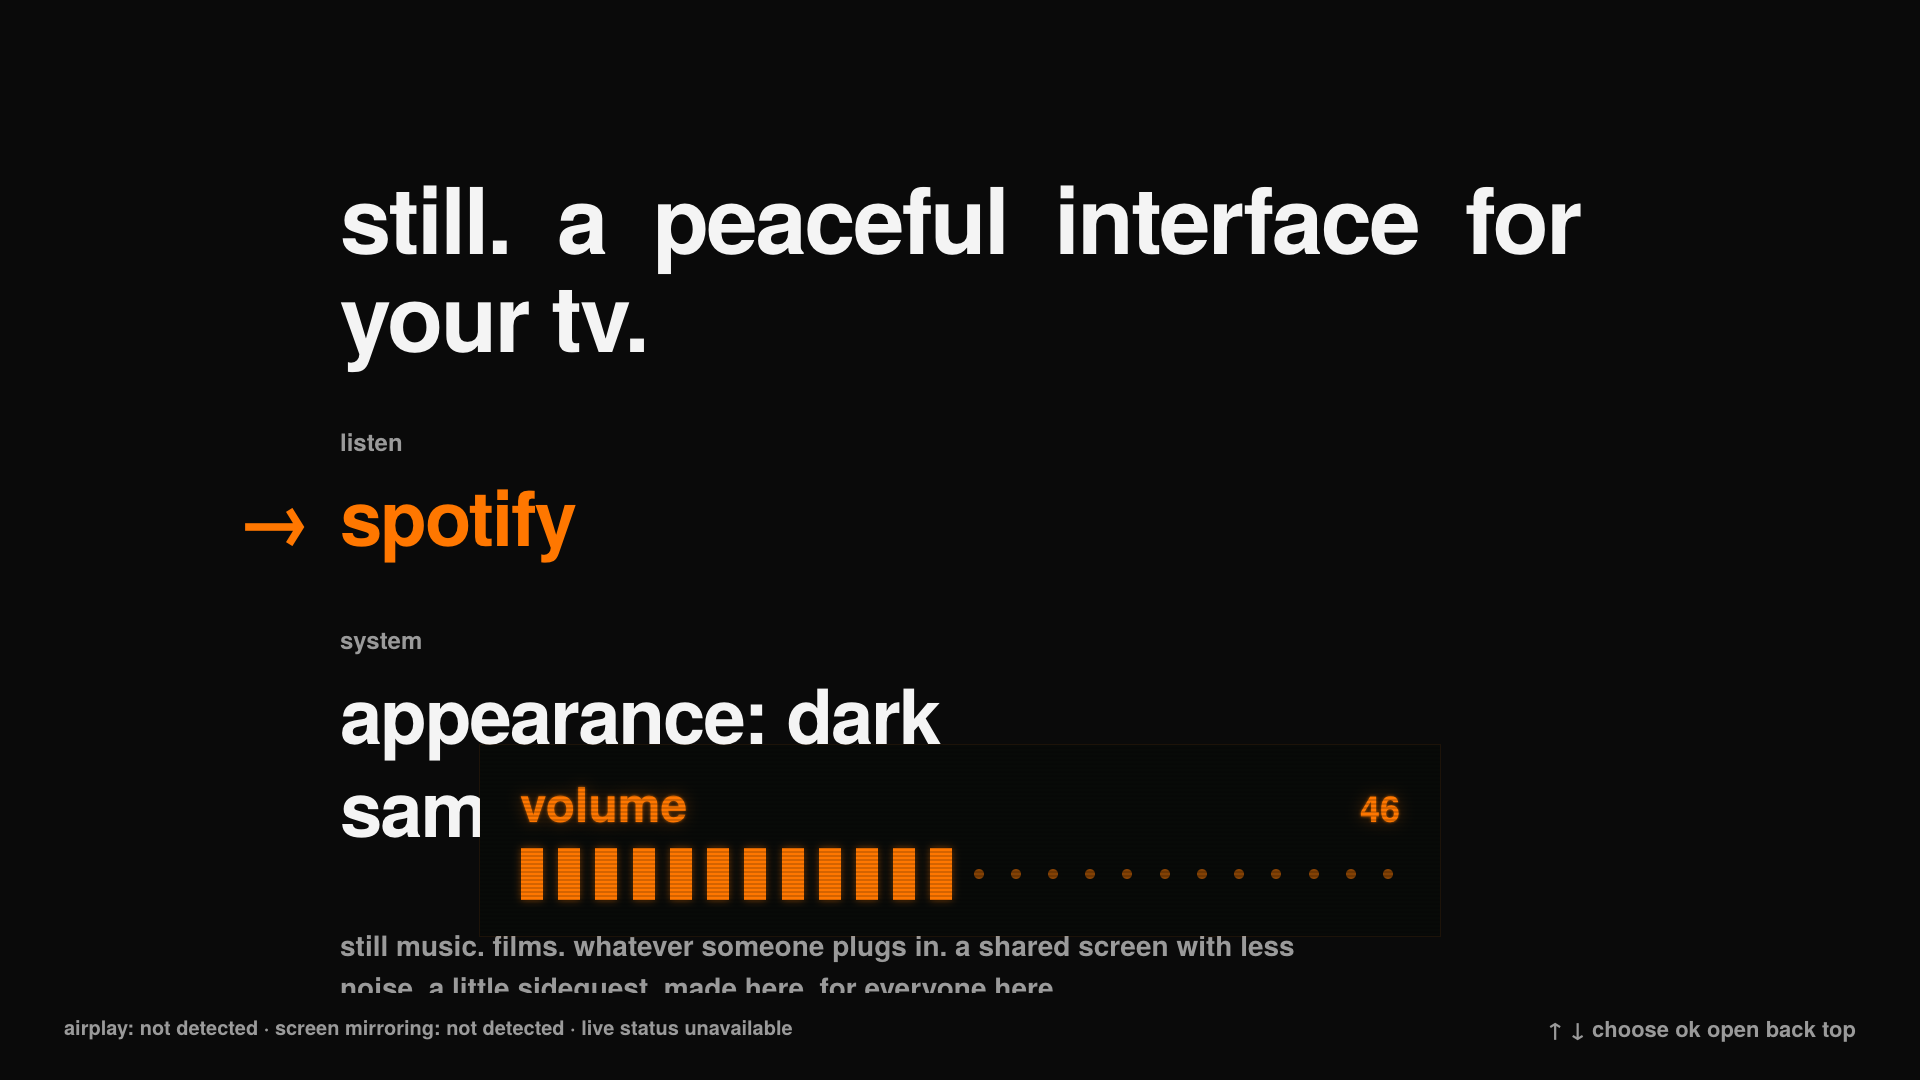
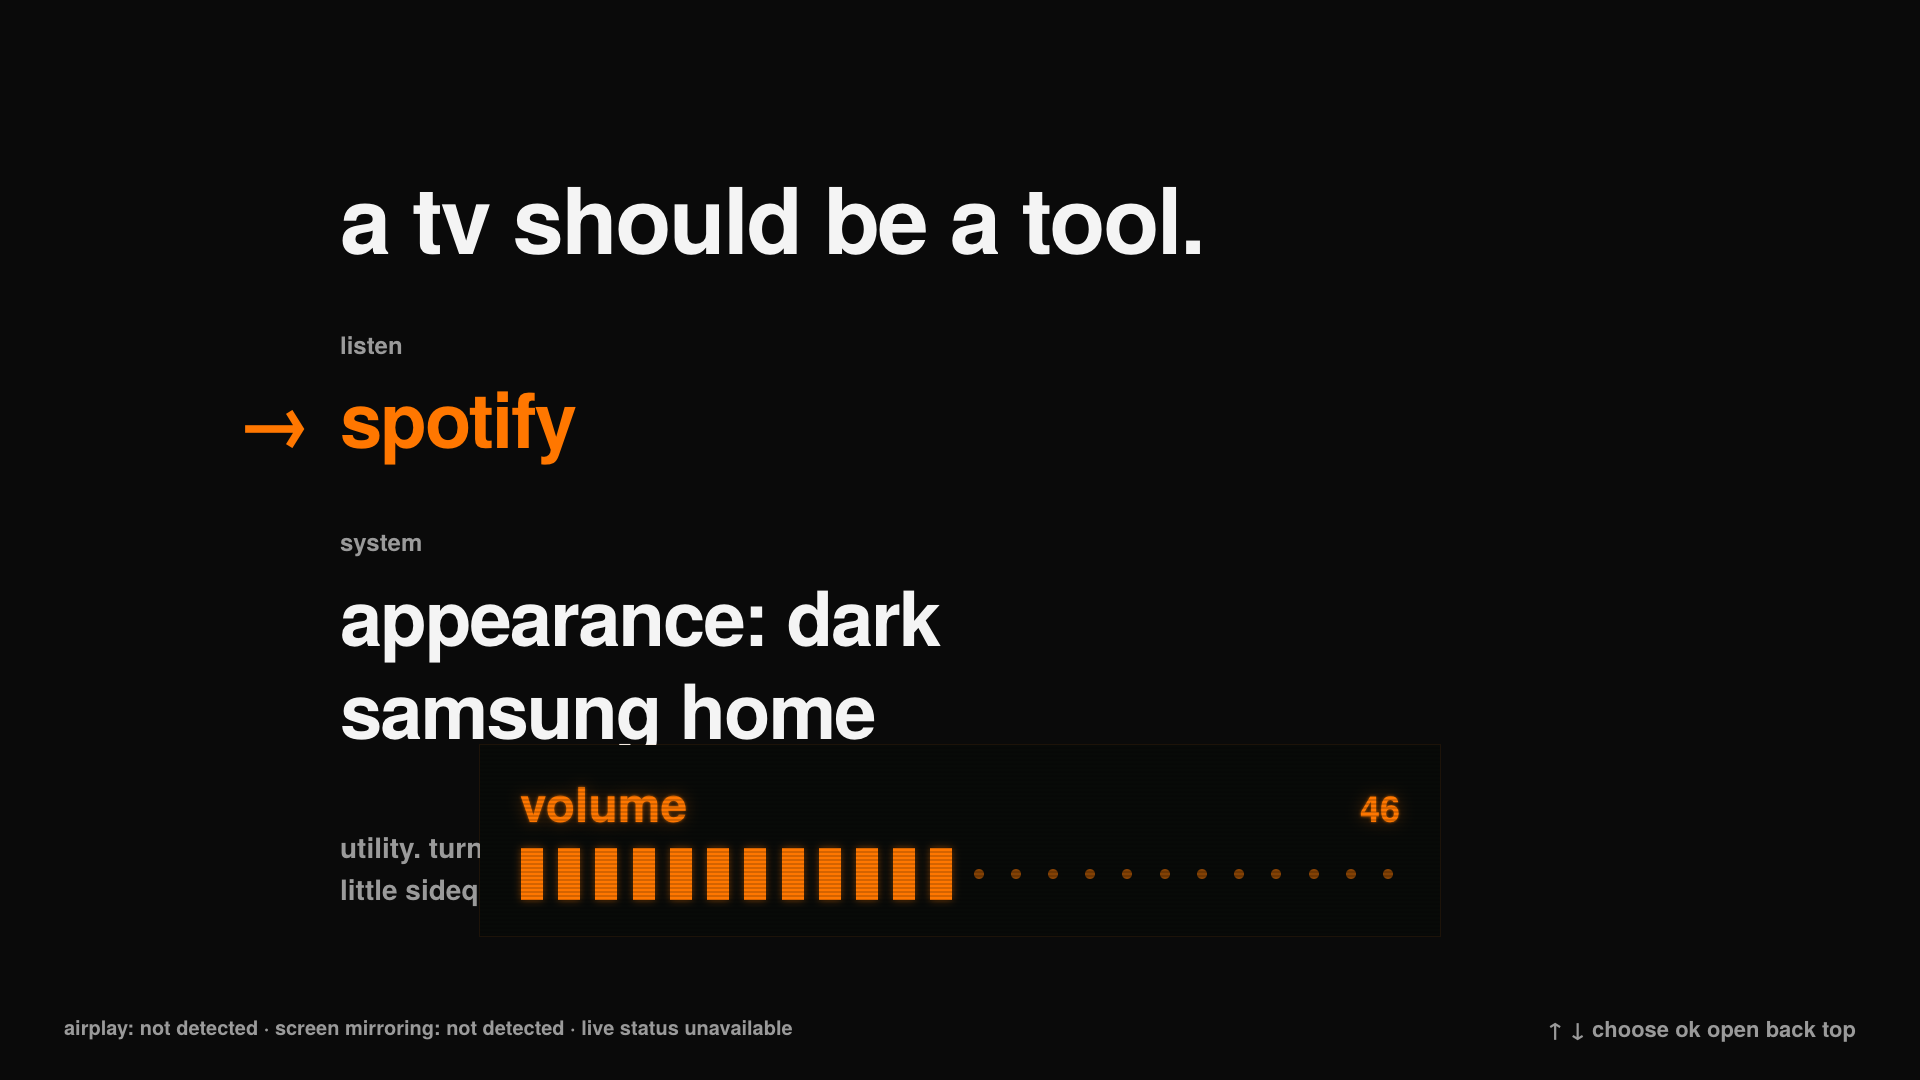
Name the TV interface UTILITY and center its purpose

diff --git a/app/index.html b/app/index.html
@@ -3,22 +3,22 @@
 <head>
 <meta charset="utf-8">
 <meta name="viewport" content="width=1920, height=1080">
-<title>Still — a peaceful TV interface</title>
+<title>UTILITY — a tv should be a tool.</title>
 <link rel="stylesheet" href="style.css">
 </head>
 <body class="loading">
 <div id="stage">
-  <div id="boot" role="status" aria-live="polite" aria-label="Loading Still">
+  <div id="boot" role="status" aria-live="polite" aria-label="Loading Utility">
     <div class="crt-content">
       <div class="crt-title" aria-hidden="true">loading<span class="crt-dot">.</span></div>
       <div class="crt-bar" aria-hidden="true"><div class="crt-signal"></div></div>
-      <div class="crt-label" aria-hidden="true">still</div>
+      <div class="crt-label" aria-hidden="true">utility</div>
     </div>
   </div>
   <div class="page" id="page">
-    <h1>still. a peaceful interface for your tv.</h1>
+    <h1>a tv should be a tool.</h1>
     <div id="list"></div>
-    <p class="project-note">still. music. films. whatever someone plugs in. a shared screen with less noise. a little sidequest, made here, for everyone here.</p>
+    <p class="project-note">utility. turn it on. choose something. music, films, whatever’s plugged in. a little sidequest in making a shared screen useful again.</p>
   </div>
 
   <div id="volume-osd" hidden role="status" aria-live="polite">

diff --git a/README.md b/README.md
@@ -1,17 +1,18 @@
-# STILL
+# UTILITY
 
-### A peaceful interface for Samsung TVs.
+### a tv should be a tool.
 
 **A minimal custom launcher for Samsung Tizen smart TVs.** Music, films, and whatever someone plugs in. Built for a shared office TV, with a remote-first interface, local assets, and a little CRT glow.
 
-> music. films. whatever’s plugged in.
-> a shared screen with a little room to breathe.
+> turn it on. choose something.
+> no feed. no recommendations. no competition for your attention.
+> music, films, whatever’s plugged in.
 
 This is a developer-mode web app, not a firmware flash. Install it alongside your existing Samsung apps. Replacing the physical Home-button destination is a separate, experimental step with a much narrower compatibility range.
 
 [Setup](#install-on-your-tv) · [Compatibility](#compatibility) · [Customization](#make-it-yours) · [Privacy](#privacy) · [Contributing](CONTRIBUTING.md)
 
-![Still — a peaceful interface for Samsung TVs](docs/still-launcher.png)
+![UTILITY — a tv should be a tool](docs/utility-launcher.png)
 
 *Browser preview; app availability and device status depend on your TV.*
 
@@ -43,7 +44,7 @@ The volume display works on this home screen. Samsung's native mute indicator ca
 | --- | --- |
 | Tested hardware | Samsung UN55CU7000FXZA, 2023 Crystal UHD |
 | Tested software | Tizen 8.0; firmware `T-KSU2ECAKUC-0080-2024.2` |
-| Current source version | `0.4.2` (branding update); hardware behavior tested with `0.4.1` |
+| Current source version | `0.4.3` (branding update); hardware behavior tested with `0.4.1` |
 | Other Samsung Tizen TVs | Intended for further testing. Manifest minimum is Tizen 6.5; this is not a verified compatibility guarantee. App IDs and available APIs can vary by model, region, and firmware. |
 | Physical Home / startup routing | Confirmed on the tested TV only, using the optional native helper. Home from Netflix and a power-off/on cycle returned to the launcher. |
 | HDMI and casting | Connected-input discovery is implemented; actual HDMI switching and casting sessions still need physical validation. Footer component detection does not establish receiver readiness. |
@@ -131,12 +132,12 @@ node tools/build.mjs --sign tv-home
 node tools/install.mjs
 ```
 
-The build validates the bundle and signs it with your `tv-home` profile. The installer selects the newest signed `tv-home` package in `dist/`, installs it, and opens the app. The app appears as **still** on the TV.
+The build validates the bundle and signs it with your `tv-home` profile. The installer selects the newest signed `tv-home` package in `dist/`, installs it, and opens the app. The app appears as **utility** on the TV.
 
 To install a particular build, pass its path explicitly:
 
 ```sh
-node tools/install.mjs dist/home-0.4.2-tv-home.wgt
+node tools/install.mjs dist/home-0.4.3-tv-home.wgt
 ```
 
 **At this stage, physical Home still follows Samsung's normal behavior.** Standard app installation alone does not change the TV's Home routing.
@@ -154,7 +155,7 @@ Read [Home routing and recovery](docs/HOME_ROUTING.md) before considering it. Th
 | [`app/catalog.js`](app/catalog.js) | App order, labels, matching rules, and app IDs. Spotify is first by default. Missing catalog apps stay hidden. |
 | [`app/style.css`](app/style.css) | Layout, focus color, CRT treatment, and typography. |
 | [`app/appearance.js`](app/appearance.js) | Latitude and longitude for offline daylight mode. Defaults: `37.7749`, `-122.4194` (San Francisco). The TV clock must be correct. |
-| [`app/index.html`](app/index.html) | `Still` branding and the communal-screen note. |
+| [`app/index.html`](app/index.html) | `UTILITY` branding and the communal-screen note. |
 | [`app/volume.js`](app/volume.js) | Foreground volume display behavior. |
 
 App IDs in the catalog came from the tested TV. If an installed app is missing on another model, investigate its actual ID and matching rule; do not add fake availability. The footer's casting status describes detected components, not whether a casting session will succeed.

diff --git a/.impeccable.md b/.impeccable.md
@@ -6,12 +6,13 @@ with the slim solar remote. They need to open installed streaming apps,
 connected inputs, casting instructions and a few everyday settings quickly.
 
 ### Brand Personality
-Still — a peaceful interface for Samsung TVs. Use lowercase in the TV UI,
+UTILITY — a tv should be a tool. Use lowercase in the TV UI,
 bold editorial type, and direct language. Brutalist structure with minimal
 visual noise; retain the existing Heros font and orange focus accent.
 Quiet, direct, communal. Copy is compressed and uses everyday-object labels.
 The interface is an editorial index for shared office equipment: simple,
-room-readable, and free of promotional feeds.
+room-readable, and free of promotional feeds. Lead with usefulness and
+freedom from ads, recommendations, and overstimulation in this interface.
 
 ### Aesthetic Direction
 One column, bold Helvetica-style bundled Heros, large room-readable type.

diff --git a/docs/PRIVACY.md b/docs/PRIVACY.md
@@ -1,4 +1,4 @@
-# Still — make the TV a tool
+# UTILITY — make the TV a tool
 
 Written 2026-10-24. Implementation status: user enabled the sale/sharing opt-out and reports all reviewed optional privacy controls off. User also confirmed turning the TV off and on returns to the launcher. Exact consent states have not been independently read back; network measurement/filtering remains deferred.
 

diff --git a/CONTRIBUTING.md b/CONTRIBUTING.md
@@ -1,4 +1,4 @@
-# Contributing to Still
+# Contributing to UTILITY
 
 Thanks for helping make shared TVs quieter and more useful. The most valuable contributions are tested compatibility reports, reliable app/input discovery, accessibility improvements, and clear installation instructions.
 
